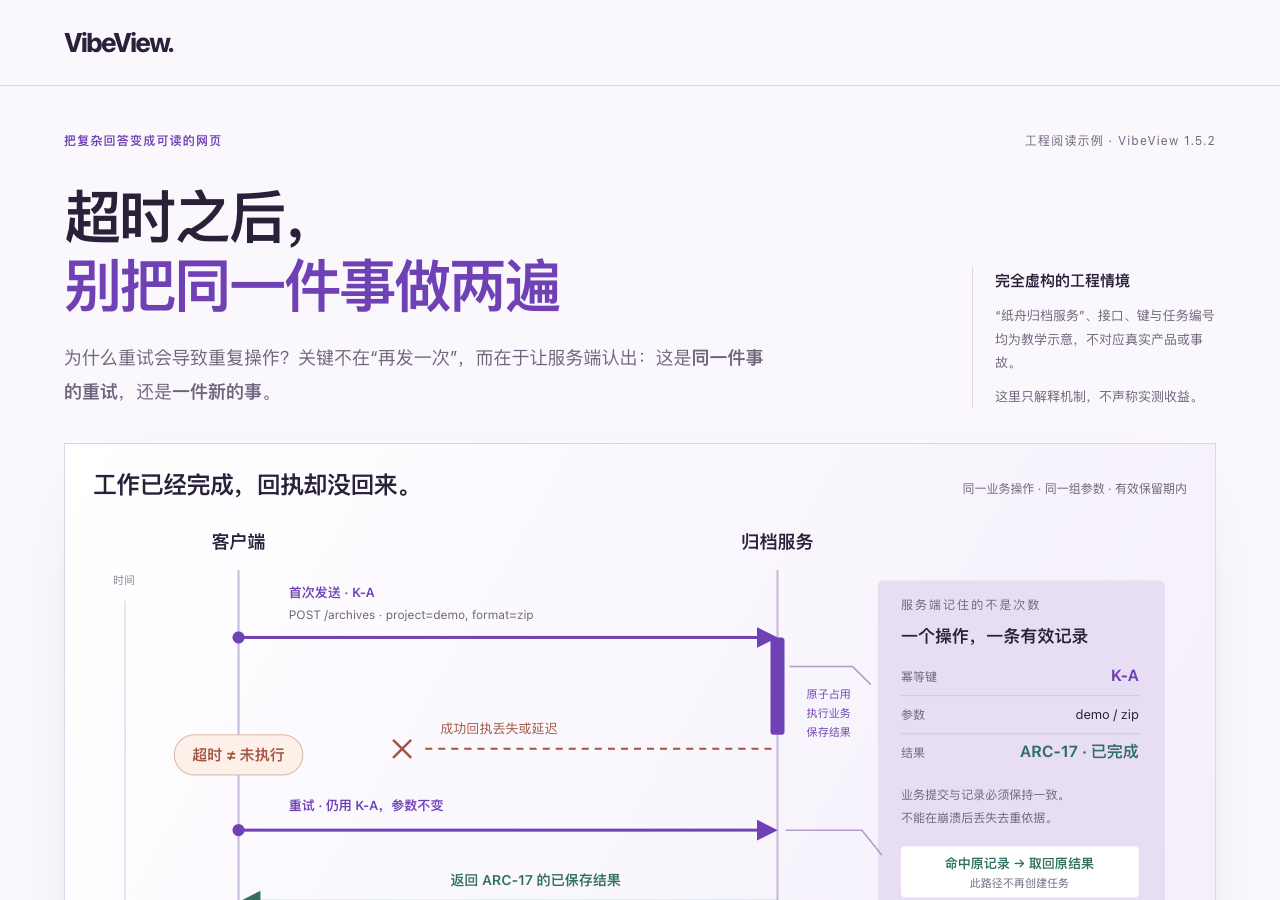
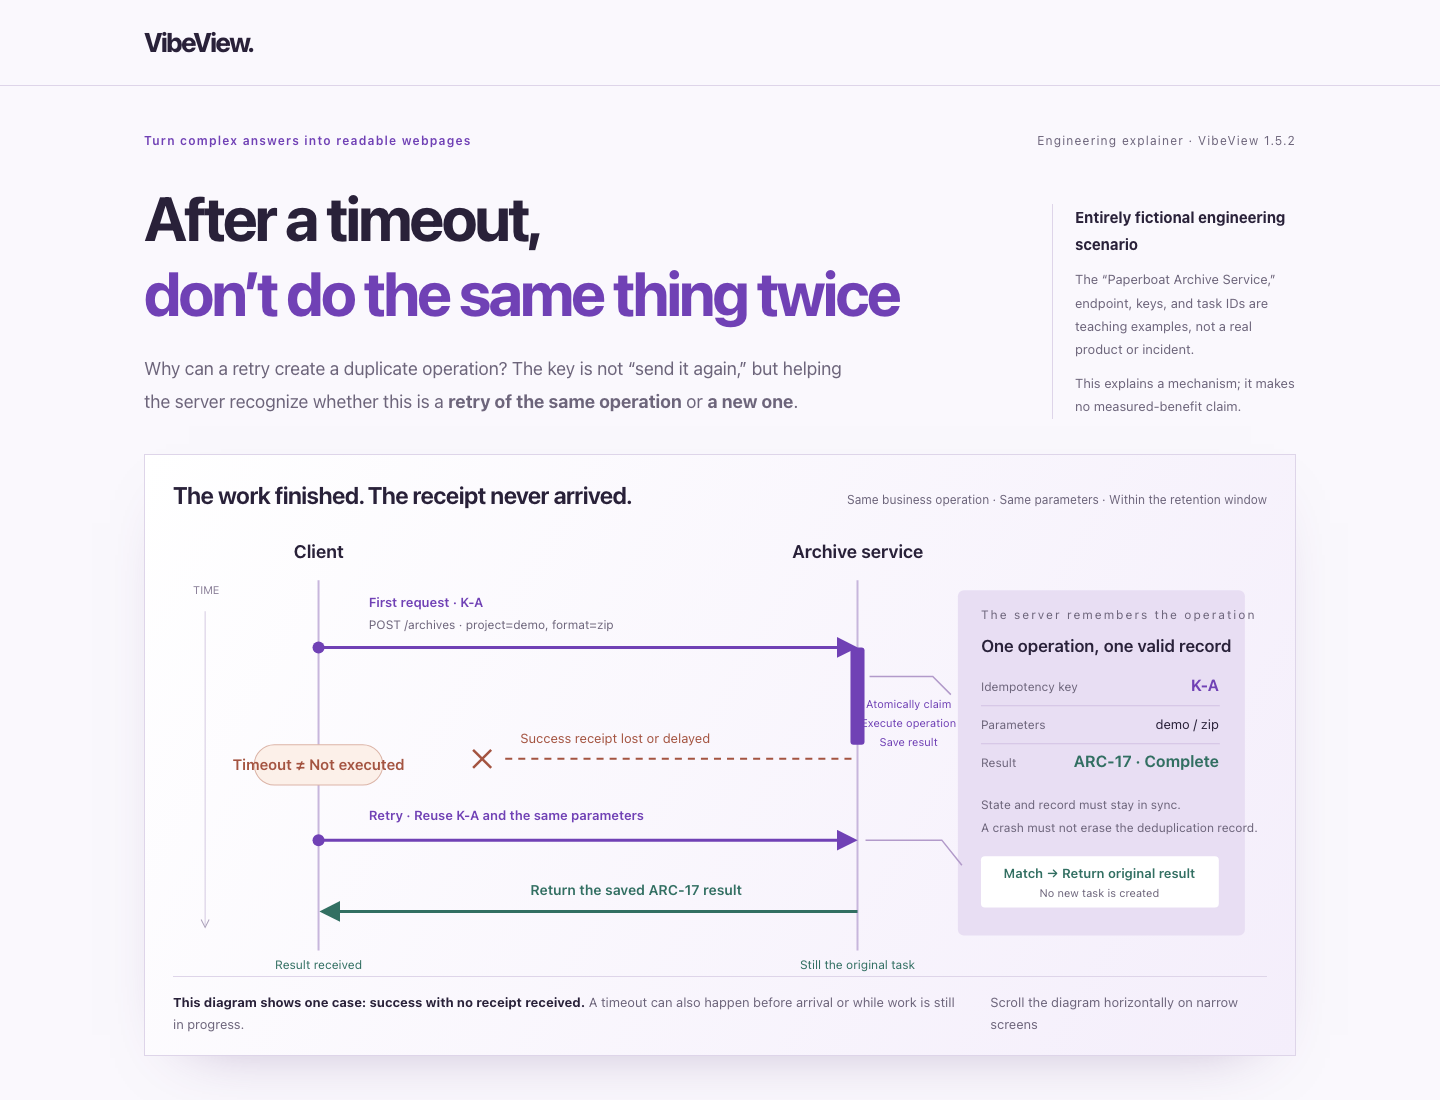
Refresh English demo screenshots and host guidance

diff --git a/docs/index.html b/docs/index.html
@@ -65,16 +65,16 @@ a{color:var(--vv-accent);text-underline-offset:5px}a:focus-visible,button:focus-
     <line x1="676" y1="234" x2="330" y2="234" stroke="#a45441" stroke-width="2" stroke-dasharray="7 6"></line><path d="M299 225 L317 243 M317 225 L299 243" stroke="#a45441" stroke-width="2.5"></path>
     <text x="346" y="218" font-size="13" fill="#a45441">Success receipt lost or delayed</text>
     <rect x="81" y="220" width="128" height="40" rx="20" fill="#fcf0e9" stroke="#dbb4a7"></rect><text x="145" y="245" text-anchor="middle" font-size="15" font-weight="600" fill="#a45441">Timeout ≠ Not executed</text>
-    <text x="805" y="284" font-size="12" fill="#6d657b">The business commit and record must stay consistent.</text><text x="805" y="307" font-size="12" fill="#6d657b">A crash must not erase the deduplication record.</text>
+    <text x="805" y="284" font-size="12" fill="#6d657b">State and record must stay in sync.</text><text x="805" y="307" font-size="12" fill="#6d657b">A crash must not erase the deduplication record.</text>
     <text x="195" y="295" font-size="13" font-weight="600" fill="#7041b5">Retry · Reuse K-A and the same parameters</text>
     <line x1="145" y1="315" x2="678" y2="315" stroke="#7041b5" stroke-width="3" marker-end="url(#arrow-violet)"></line><circle cx="145" cy="315" r="6" fill="#7041b5"></circle>
     <path d="M690 315 L766 315 L786 340" fill="none" stroke="#b29aca" stroke-width="1.5"></path>
-    <rect x="805" y="331" width="237" height="51" rx="4" fill="#fff"></rect><text x="923" y="353" text-anchor="middle" font-size="13" font-weight="600" fill="#326f62">Match record → Return original result</text><text x="923" y="372" text-anchor="middle" font-size="11" fill="#6d657b">No new task is created</text>
+    <rect x="805" y="331" width="237" height="51" rx="4" fill="#fff"></rect><text x="923" y="353" text-anchor="middle" font-size="13" font-weight="600" fill="#326f62">Match → Return original result</text><text x="923" y="372" text-anchor="middle" font-size="11" fill="#6d657b">No new task is created</text>
     <line x1="682" y1="386" x2="150" y2="386" stroke="#326f62" stroke-width="3" marker-end="url(#arrow-green)"></line><text x="356" y="370" font-size="14" fill="#326f62" font-weight="600">Return the saved ARC-17 result</text>
     <text x="145" y="443" text-anchor="middle" font-size="12" fill="#326f62">Result received</text><text x="682" y="443" text-anchor="middle" font-size="12" fill="#326f62">Still the original task</text>
   </svg>
   </div>
-  <figcaption><span><strong>This diagram shows one case: success with no receipt received.</strong>A timeout can also happen before arrival or while work is still in progress.</span><span>Scroll the diagram horizontally on narrow screens</span></figcaption>
+  <figcaption><span><strong>This diagram shows one case: success with no receipt received.</strong> A timeout can also happen before arrival or while work is still in progress.</span><span>Scroll the diagram horizontally on narrow screens</span></figcaption>
 </figure>
 <div class="rm-thesis"><span class="vv-kicker">One intuition to correct</span><p>A timeout means <strong>you do not know the result yet</strong>;<br>it is not the server’s “undo” button. <em>Sending again does not mean executing again.</em></p></div>
 <section class="rm-section" aria-labelledby="identity-title">

diff --git a/examples/reading-map.fragment.html b/examples/reading-map.fragment.html
@@ -52,16 +52,16 @@
     <line x1="676" y1="234" x2="330" y2="234" stroke="#a45441" stroke-width="2" stroke-dasharray="7 6"></line><path d="M299 225 L317 243 M317 225 L299 243" stroke="#a45441" stroke-width="2.5"></path>
     <text x="346" y="218" font-size="13" fill="#a45441">Success receipt lost or delayed</text>
     <rect x="81" y="220" width="128" height="40" rx="20" fill="#fcf0e9" stroke="#dbb4a7"></rect><text x="145" y="245" text-anchor="middle" font-size="15" font-weight="600" fill="#a45441">Timeout ≠ Not executed</text>
-    <text x="805" y="284" font-size="12" fill="#6d657b">The business commit and record must stay consistent.</text><text x="805" y="307" font-size="12" fill="#6d657b">A crash must not erase the deduplication record.</text>
+    <text x="805" y="284" font-size="12" fill="#6d657b">State and record must stay in sync.</text><text x="805" y="307" font-size="12" fill="#6d657b">A crash must not erase the deduplication record.</text>
     <text x="195" y="295" font-size="13" font-weight="600" fill="#7041b5">Retry · Reuse K-A and the same parameters</text>
     <line x1="145" y1="315" x2="678" y2="315" stroke="#7041b5" stroke-width="3" marker-end="url(#arrow-violet)"></line><circle cx="145" cy="315" r="6" fill="#7041b5"></circle>
     <path d="M690 315 L766 315 L786 340" fill="none" stroke="#b29aca" stroke-width="1.5"></path>
-    <rect x="805" y="331" width="237" height="51" rx="4" fill="#fff"></rect><text x="923" y="353" text-anchor="middle" font-size="13" font-weight="600" fill="#326f62">Match record → Return original result</text><text x="923" y="372" text-anchor="middle" font-size="11" fill="#6d657b">No new task is created</text>
+    <rect x="805" y="331" width="237" height="51" rx="4" fill="#fff"></rect><text x="923" y="353" text-anchor="middle" font-size="13" font-weight="600" fill="#326f62">Match → Return original result</text><text x="923" y="372" text-anchor="middle" font-size="11" fill="#6d657b">No new task is created</text>
     <line x1="682" y1="386" x2="150" y2="386" stroke="#326f62" stroke-width="3" marker-end="url(#arrow-green)"></line><text x="356" y="370" font-size="14" fill="#326f62" font-weight="600">Return the saved ARC-17 result</text>
     <text x="145" y="443" text-anchor="middle" font-size="12" fill="#326f62">Result received</text><text x="682" y="443" text-anchor="middle" font-size="12" fill="#326f62">Still the original task</text>
   </svg>
   </div>
-  <figcaption><span><strong>This diagram shows one case: success with no receipt received.</strong>A timeout can also happen before arrival or while work is still in progress.</span><span>Scroll the diagram horizontally on narrow screens</span></figcaption>
+  <figcaption><span><strong>This diagram shows one case: success with no receipt received.</strong> A timeout can also happen before arrival or while work is still in progress.</span><span>Scroll the diagram horizontally on narrow screens</span></figcaption>
 </figure>
 <div class="rm-thesis"><span class="vv-kicker">One intuition to correct</span><p>A timeout means <strong>you do not know the result yet</strong>;<br>it is not the server’s “undo” button. <em>Sending again does not mean executing again.</em></p></div>
 <section class="rm-section" aria-labelledby="identity-title">

diff --git a/README.md b/README.md
@@ -65,23 +65,27 @@ You are already discussing the problem with an Agent, and the answer is already 
 
 ### Requirements
 
-- An Agent host that can load a local `SKILL.md` and run local scripts. This project was built for **WorkBuddy**.
-- Python 3. The validation environment for this release was Python 3.13.12 on macOS. The scripts use only the standard library; no `pip install` is needed.
-- Git for the command below. You can also download the ZIP and copy it into the Skills directory manually.
+- A harness that implements the standard Agent Skills format and can run local Python scripts.
+- Python 3. This release was validated with Python 3.13.12 on macOS. The scripts use only the standard library; no `pip install` is needed.
+- Git, or download the ZIP and copy the complete project folder into your harness's Skills directory.
 
-### Install in WorkBuddy
+### Install
 
-Run this in a macOS or Linux terminal:
+Clone the repository into the Skills directory used by your harness. For example:
 
 ```bash
-git clone https://github.com/tahoeliu/vibeview.git "$HOME/.workbuddy/skills/vibeview"
+git clone https://github.com/tahoeliu/vibeview.git vibeview
 ```
 
-The destination directory must not already exist; do not overwrite an existing installation. If SSH is configured, you can use the repository's SSH clone URL instead.
+Keep the complete folder structure (`SKILL.md`, `scripts/`, `assets/`, and `references/`). Reload or restart your harness if needed, then start a conversation and try:
 
-> **Already using VibeView, VibePreview, or TahoeView?** First locate the old Skill in your host. The author's former installation directory was named `tahoeview`, while the Skill itself was already named `vibeview`. Do not load both copies at once. Back up and disable the old copy before installing this one. The command above does not migrate or remove an older version.
+```text
+vv explain how a timeout retry can create a duplicate operation, including concurrency and expiration limits
+```
 
-Ask WorkBuddy to reload local Skills. If it does not recognize the Skill, restart the app or start a new session. Then try:
+VibeView follows the standard Agent Skills format. Any harness that implements that format and supports local script execution can use it. The exact installation path and reload steps depend on the harness.
+
+If VibeView is already installed, choose a new destination or update the existing copy using your harness's usual process; do not clone over an existing directory.
 
 ```text
 vv explain how a timeout retry can create a duplicate operation, including concurrency and expiration limits

diff --git a/SKILL.md b/SKILL.md
@@ -1,6 +1,6 @@
 ---
 name: vibeview
-description: Turn user instructions, the current conversation, and completed Agent work into an attractive, readable visual webpage. Invoke with the natural-language convention `vv`, such as “vv summarize the analysis so far.” Also recognizes VibePreview and TahoeView. Use by default for complex or long-form answers when no format is specified; do not use for short answers. Readability and design quality come first, speed second. Compose for the content instead of defaulting to a template.
+description: Turn user instructions, the current conversation, and completed Agent work into an attractive, readable visual webpage. Invoke with the natural-language convention `vv`, such as “vv summarize the analysis so far.” Use by default for complex or long-form answers when no format is specified; do not use for short answers. Readability and design quality come first, speed second. Compose for the content instead of defaulting to a template.
 agent_created: true
 version: 1.5.2
 ---
